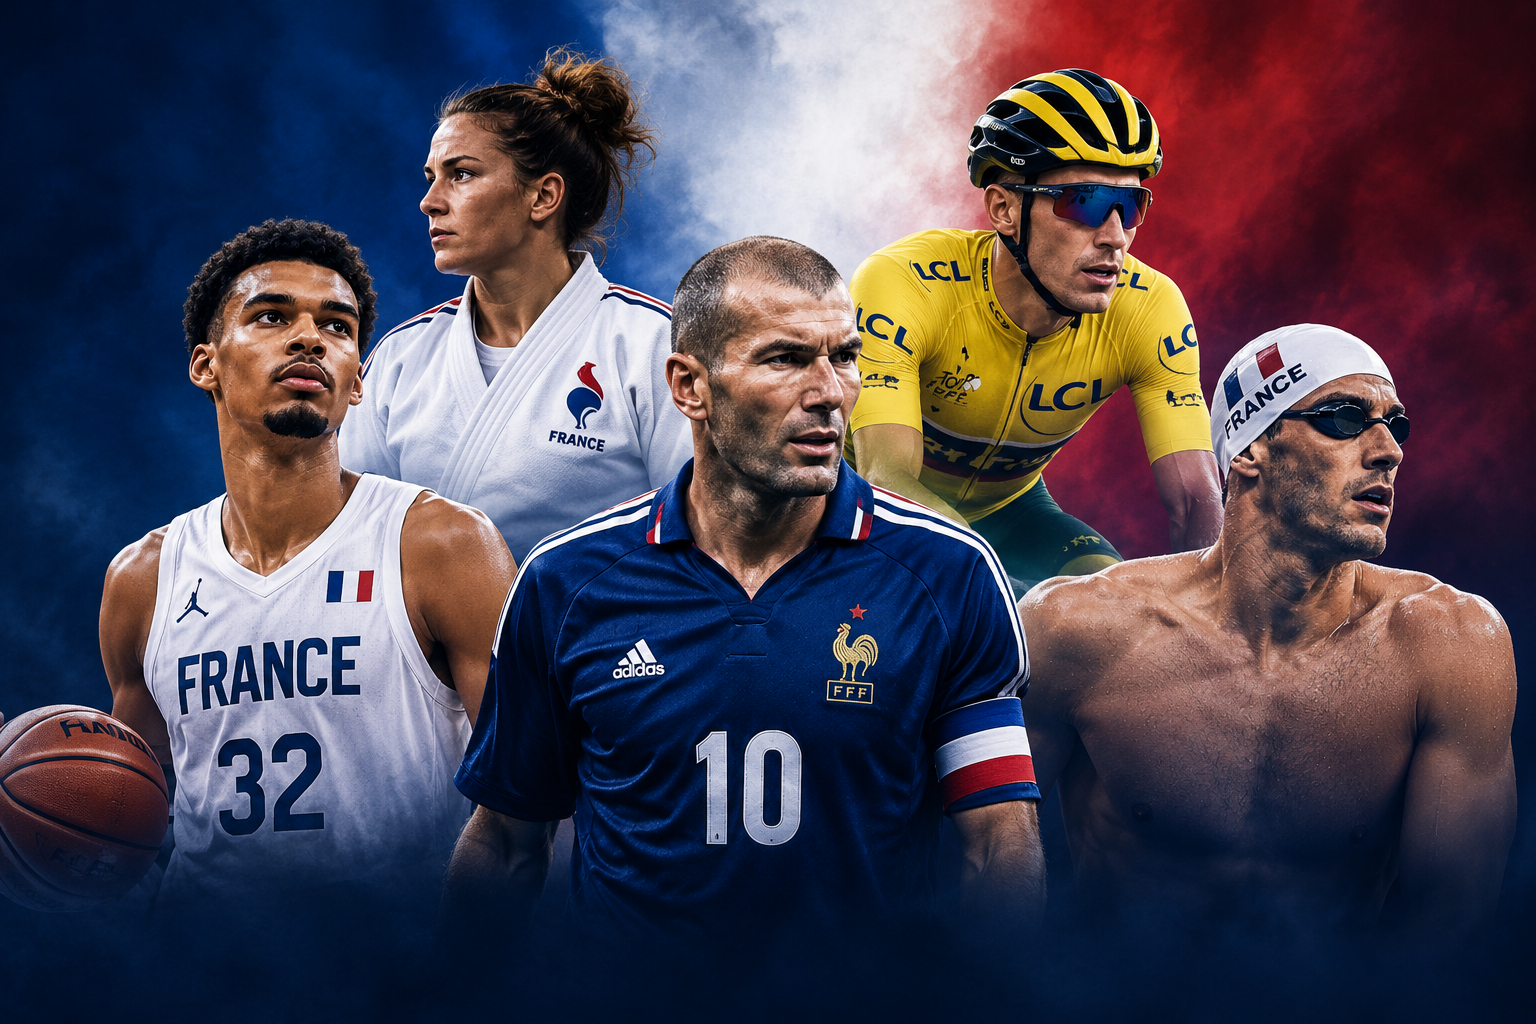
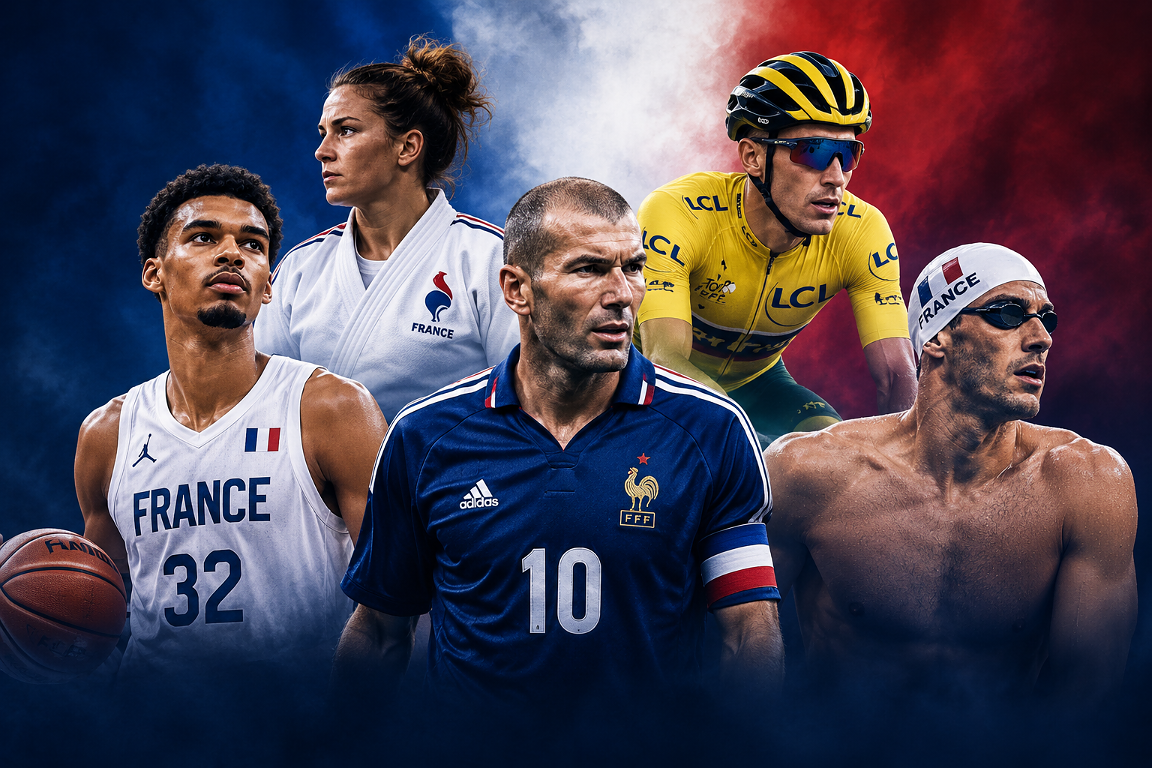
ecran 1024 et feedback-suivant

diff --git a/style.css b/style.css
@@ -66,7 +66,7 @@ Section Ecran d'accueil
 
 .image-accueil {
   width: 100%;
-  height: 40vh;
+  height: 30vh;
   object-fit: cover;
 }
 
@@ -143,6 +143,11 @@ input {
   background-image: none;
   border-color: rgb(175, 17, 17);
 }
+
+.reponse.selectionne {
+  outline: 3px solid white;
+  outline-offset: 3px;
+}
 /* ==========================================================
 FEEDBACK ET BOUTON SUIVANT
 ==============================================================*/
@@ -178,6 +183,10 @@ SECTION Questions
   margin: 1rem auto;
 }
 
+.feedback-suivant p {
+  font-size: 1.2rem;
+  padding: 0.5rem;
+}
 /* ==========================================================
 SECTION RESULTATS 
 ==============================================================*/
@@ -214,6 +223,7 @@ Regle pour écrans-caché
   display: none; /* La classe .cache masque un écran */
 }
 
+
 /* ====================================================
 ECRAN 768 px 
 =======================================================*/
@@ -221,6 +231,13 @@ ECRAN 768 px
   #ecran-question {
     align-items: unset;
   }
+
+  .image-accueil {
+  width: 100%;
+  height: 60vh;
+  object-fit: cover;
+}
+
   .liste-reponses {
     /* display: flex;
     justify-content: space-evenly;
@@ -230,12 +247,20 @@ ECRAN 768 px
     margin: 0 1.5rem;
   }
 
+
   .feedback-suivant {
-    display: grid;
-    grid-template-columns: 1fr 154px;
-    align-items: center;
-    margin: 0 1rem 0 0;
-  }
+  display: grid;
+  grid-template-columns: 1fr auto;
+  align-items: center;
+  justify-content: space-evenly;
+  gap: 3rem;
+  width: fit-content;
+  margin: 0 auto;
+}
+
+  .feedback-suivant p {
+  font-size: 2rem;
+}
 
   .gif {
     max-width: 300px;
@@ -243,4 +268,30 @@ ECRAN 768 px
   .image-question {
     max-width: 500px;
   }
+}
+
+/* ====================================================
+ECRAN 1024 px 
+=======================================================*/
+
+@media screen and (min-width: 1024px) {
+
+  .image-accueil {
+  width: 100%;
+  height: 100vh;
+  object-fit: cover;
+}
+
+  .feedback-suivant {
+  display: grid;
+  grid-template-columns: 1fr auto;
+  align-items: center;
+  justify-content: center;
+  gap: 7rem;
+  width: fit-content;
+  margin: 0 auto;
+}
+  .feedback-suivant p {
+  font-size: 2rem;
+}
 }

diff --git a/script.js b/script.js
@@ -78,6 +78,7 @@ const afficherQuestion = () => {
     btn.textContent = reponse;
     btn.classList.add("reponse");
     btn.addEventListener("click", () => {
+    btn.classList.add("selectionne");
       verifierReponse(index, btn);
     });
     listeReponses.appendChild(btn);
@@ -99,6 +100,7 @@ const afficherQuestion = () => {
 const verifierReponse = (index, btn) => {
   // Écris ton code ici
   const q = questions[indexCourant];
+  const bonneReponse = q.bonne_reponse
   const boutons = document.querySelectorAll(".reponse");
   boutons.forEach((bouton) => {
     bouton.disabled = true;
@@ -111,6 +113,7 @@ const verifierReponse = (index, btn) => {
   } else {
     feedback.textContent = "Mauvaise réponse ! ❌";
     btn.classList.add("mauvaise");
+    boutons[bonneReponse].classList.add("bonne")
   }
   feedback.classList.remove("cache");
   btnSuivant.classList.remove("cache");

diff --git a/index.html b/index.html
@@ -44,7 +44,10 @@
           <li>1 point par bonne réponse</li>
           <li>Un score final sur 10</li>
         </ul>
-        <p>Prêt à relever le défi ? À toi de jouer !</p>
+        <p>
+          Prêt à relever le défi ?<br />
+          À toi de jouer !
+        </p>
       </div>
       <button class="btn commencer">Commencer</button>
     </section>
